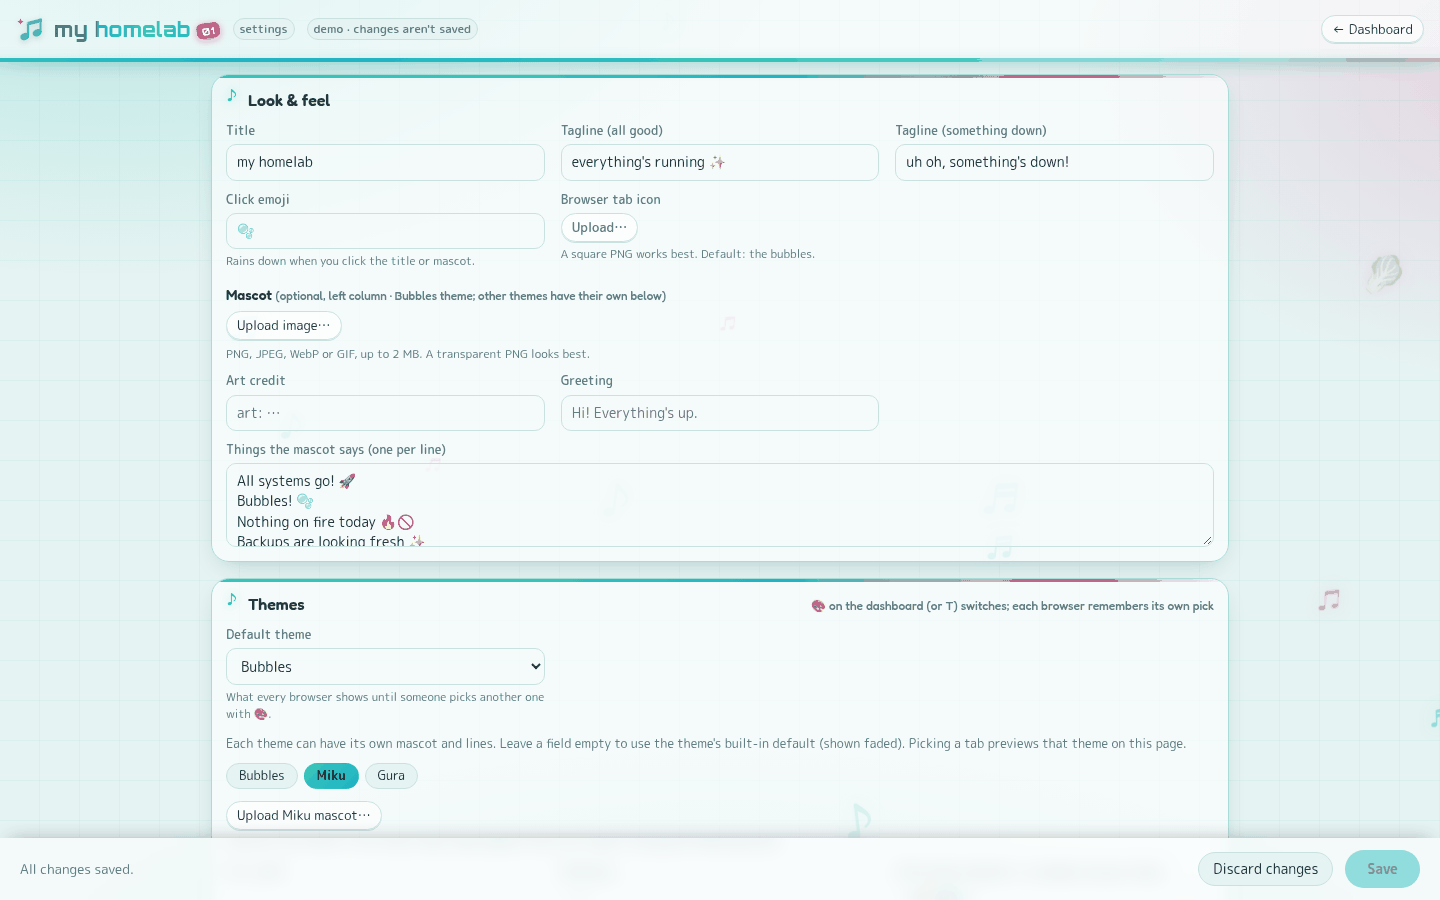
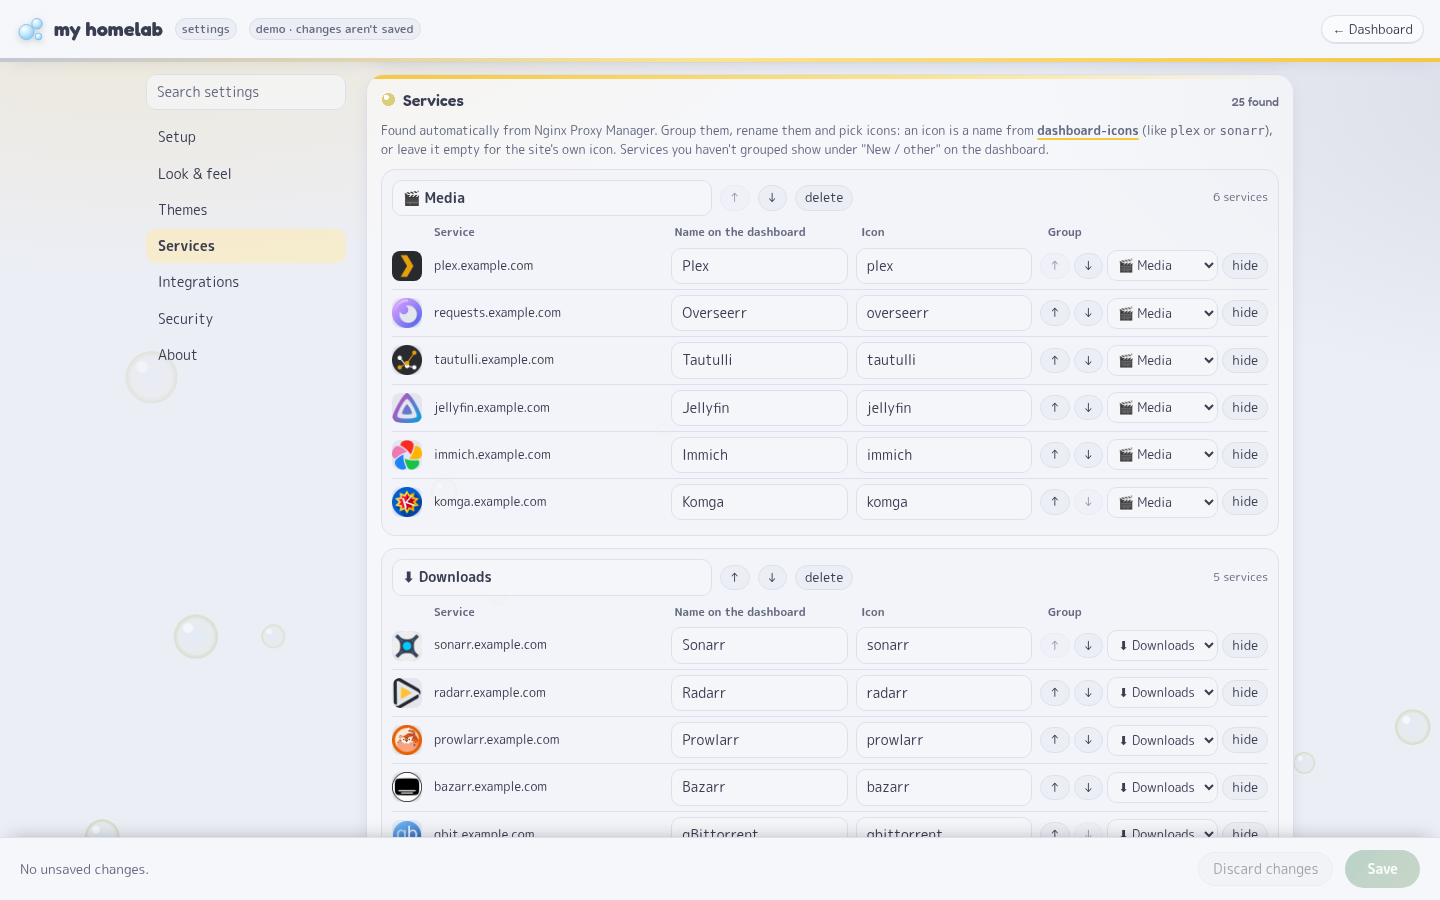
Docs: the new settings page, and what moved onto it
Why: the first-time-user review found docs that now disagree with the page:
- CHECK_VIA_PROXY described as env-only.
- "List services in config.toml" for people without NPM.
- .env called optional, though compose needs the file.
- A compose comment about LAN-only use that does nothing.
- config.example.toml claiming everything there can be set on the page.

What changed:
- README.md:
  - a ⭐ "What's new" entry with a fresh-install Setup screenshot;
  - the Settings page section describes the new sections;
  - Install mentions Setup, `docker logs dash` for an empty page, and how to find the proxy's network;
  - .env is needed (it may stay empty);
  - non-NPM services go on the page;
  - key storage and TRUSTED_PROXY's default are worded correctly.
- docs/SETTINGS.md:
  - a via_proxy row;
  - CHECK_VIA_PROXY wins and locks it;
  - Setup checks the other two places;
  - "Known IPs" naming.
- docs/screenshot-setup.png (new), docs/screenshot-settings.png (redone): from a clean first-install copy
  and the demo.
- docker-compose.yml: the LISTEN pointer goes to docs/SETTINGS.md; CHECK_VIA_PROXY is also on the page;
  LAN-only means setting TRUSTED_PROXY: "".
- config.example.toml: which keys the page can't set, when origin applies, mascot uploads, check_via_proxy,
  where keys are saved.
- .env.example: the lock text the page shows.
- THREAT-MODEL.md: the hosts and paths checked through the proxy are now set on the page.
[…]

diff --git a/README.md b/README.md
@@ -4,7 +4,8 @@
 torrents (with a VPN-leak alarm), temperatures, drives, security and backups, all at a glance.
 
 - Small: one stdlib-Python app. No pip, no Node, no database. About 25–40 MB of RAM.
-- Easy: set it up from a settings page in your browser. Services from Nginx Proxy Manager show up on their own.
+- Easy: set it up from a settings page in your browser. Its **Setup checklist** tells you what's missing and how to
+  fix it. Services from Nginx Proxy Manager show up on their own.
 - Safe: your API keys stay on the server, and the part that runs as root never talks to the network.
 
 **▶ [Try the live demo](https://demo.vicy.us)** (fake data, nothing you do there is saved)
@@ -78,9 +79,9 @@ docker compose up -d
 ```
 
 In NPM, add a proxy host that forwards to `dash:8000`, and **put it behind your SSO** (Authelia, Authentik, …).
-Open the dashboard, click **⚙**, and set everything else there.
+Open the dashboard and click **⚙**: the **Setup** checklist checks the rest and gives the exact fix for anything missing.
 
-> **Empty page or 502?** Check `docker logs dash` and that `TRUSTED_PROXY` is your proxy's real container name.
+> **Empty page or 502?** Run `docker logs dash`. A `TRUSTED_PROXY` name that doesn't resolve refuses everyone, and the log says so.
 > Not sure of your proxy's network name? `docker inspect -f '{{range $k,$v := .NetworkSettings.Networks}}{{$k}} {{end}}' <proxy>`
 
 **2. The collector** (optional, runs on the host as root)
@@ -128,10 +129,27 @@ Most updates need nothing from you. These ones might:
 | **New `LISTEN` setting** (optional, recommended). | Lets the dash answer only on a network that your proxy alone shares with it, so no other container can reach it. [How to set it up](docs/SETTINGS.md#lock-the-dash-to-the-proxy-listen). |
 | **Upload limits**: images only (PNG, JPEG, GIF, WebP), 2 MB each, 200 files / 100 MB in all. SVG is refused. | Nothing, unless you upload a lot of icons. |
 | **Fonts are now part of the app** instead of coming from Google. | Nothing. The page loads nothing from outside any more. |
-| **Health checks through the proxy can use a path** (`CHECK_VIA_PROXY: vault.example.com/alive`). | Use it when a service's `/` sits behind a login. |
+| **"Check through the proxy" moved onto the settings page** (Services → Advanced), and an entry can carry a path (`vault.example.com/alive`). | Nothing: if `CHECK_VIA_PROXY` is set in the compose file it still wins, and the page shows it locked. You can remove it from the compose file and manage the list on the page instead. |
 | **`.env` must exist** (the compose file loads it). | `cp .env.example .env`, even if you leave it empty. |
 
 ### The big changes
+
+#### ⚙ A new settings page: set everything up in one place (Oct 29)
+
+![The Setup checklist on a fresh install](docs/screenshot-setup.png)
+
+The settings page was rebuilt around a new install: after `docker compose up -d`, everything else is set on the page,
+and for what can't be, the Setup checklist gives the exact fix.
+
+- **Setup checklist.** Checks the proxy lock, the dashboard's address, whether settings can be saved, the Nginx Proxy
+  Manager folder, **whether a sign-in sits in front of the dashboard**, the collector and the integrations. Each
+  problem says what happens if you ignore it and gives the exact fix, with a **Copy** button.
+- **Side menu with search** (a bar on phones), a dot on every section with unsaved changes, one Save bar
+  (**Ctrl+S**), and an error summary that takes you straight to the field.
+- **Clearer Test results**: "can't find 'overseerr'" (wrong Docker network), timeouts, refused connections.
+- **Every theme edited the same way** (the Default theme picker moved into Themes), and services not in NPM get their own tile link.
+- **Accessible**: readable contrast in every theme, a visible focus ring, labels on every field, works with the
+  keyboard alone and on a phone.
 
 #### 🔒 Security audit and hardening (Oct 29)
 
@@ -224,15 +242,17 @@ The panel is about a third shorter, and the wall view fits any number of groups.
 
 ![Settings page](docs/screenshot-settings.png)
 
-Click **⚙** (or open `/settings`). Changes apply right away, no restart.
+Click **⚙** (or open `/settings`). Use the side menu or the search box; changes apply right away, no restart.
 
-- **Look & feel**: title, default theme, and per theme its mascot, taglines and lines.
-- **Services**: everything found in NPM. Create, rename and reorder groups; change labels and icons (any
-  [dashboard-icons](https://dashboard-icons.homarr.dev) name); hide what you don't want. New NPM hosts appear on their own.
-- **Extra services** that aren't in NPM (NAS, router, …).
-- **Integrations**: qBittorrent, Seerr / Overseerr / Jellyseerr, Tautulli, each with a **Test** button.
-- **Trusted IPs** for the login checks (or add them from the SSH details).
-- **Hidden panels**.
+| Section | What's there |
+|---|---|
+| **Setup** | What's working and what isn't, each with its fix |
+| **Look & feel** | Title, and which panels to show |
+| **Themes** | The default theme; per theme its mascot (upload an image), tab icon, taglines, click emoji and lines |
+| **Services** | Everything found in NPM: groups (create, rename, reorder), labels, icons (any [dashboard-icons](https://dashboard-icons.homarr.dev) name), hiding. Services not in NPM (NAS, router, …). Advanced: services to check through the proxy |
+| **Integrations** | qBittorrent, Seerr / Overseerr / Jellyseerr, Tautulli, each with a **Test** button that says what's wrong |
+| **Security** | **Your own IPs** (was "Trusted IPs"): logins from them aren't flagged (or add them from the SSH details) |
+| **About** | What's set in `docker-compose.yml`, and why it can't be changed here |
 
 Everything is saved in `data/` (`settings.json`, keys in `secrets.json`, both `chmod 600`). Prefer a file? Put a
 `config.toml` in `data/` (see [`config.example.toml`](config.example.toml)); it's used until the first save.

diff --git a/docs/SETTINGS.md b/docs/SETTINGS.md
@@ -4,7 +4,7 @@ Three places, each for a different kind of setting:
 
 | Where | What goes there | Who can change it |
 |---|---|---|
-| The **/settings page** (saved to `data/settings.json`, keys to `data/secrets.json`) | everything about the look, the services, the integrations | anyone who can open the dashboard (unless `SETTINGS_UI=0`) |
+| The **/settings page** (saved to `data/settings.json`, keys to `data/secrets.json`) | everything about the look, the services, the integrations. Its **Setup** section checks the other two places and gives the exact fix for anything missing | anyone who can open the dashboard (unless `SETTINGS_UI=0`) |
 | **Environment** (`docker-compose.yml`, `.env`) | anything security-critical: who may talk to the dash, where it listens, the CSRF origin; optionally the integration keys (then the page can't change them) | whoever runs the container |
 | **`/etc/homelab-dash/collector.toml`** | what the root collector checks | root (see `collector/collector.example.toml`) |
 
@@ -35,6 +35,7 @@ save from the settings page. Every field is validated on the server; a bad value
 | `apps.<host>` | `{label, icon, url}`: a tile's name, its icon (a [dashboard-icons](https://github.com/homarr-labs/dashboard-icons) name, an uploaded file or a URL) and where it links (default `https://<host>`) |
 | `services` | `[{name, url, auth}]`: services that aren't proxy hosts; `url` is what gets health-checked |
 | `skip_hosts` | proxy hosts to leave off the dashboard |
+| `via_proxy` | up to 100 `host` or `host/path` entries (Services → Advanced): health-checked through the reverse proxy instead of directly, for services on a network the dashboard isn't on. A path is checked instead of `/` (use one that skips the sign-in). `CHECK_VIA_PROXY` in the environment wins and locks the field. In `config.toml`: `[proxy] check_via_proxy` |
 
 A service counts as **up** when it answers below HTTP 500 (a login page or a redirect counts: redirects aren't
 followed). Health checks run at most every 25 s whatever the number of open browsers.
@@ -51,7 +52,7 @@ An integration turns on when its URL and keys are set. Changing an integration's
 keys again, so a changed address can't receive the saved ones. Keys never go back to the browser (the page only sees
 "set" / "not set"). The integrations never follow redirects; the settings page's **Test** says so if one redirects.
 
-### `known_ips`
+### `known_ips` ("Known IPs" on the page)
 
 Up to 200 entries: full addresses (`198.51.100.7`, `2001:db8::1`) or prefixes ending in `.` or `:` (`203.0.113.`,
 `2001:db8:`). SSH and SSO logins from anywhere else are flagged. The SSH detail view can add an IP that really logged in.
@@ -66,7 +67,7 @@ Up to 200 entries: full addresses (`198.51.100.7`, `2001:db8::1`) or prefixes en
 | `SETTINGS_UI` | `1` | `0` makes the settings page read-only |
 | `USER_HEADER` | (off) | A header naming the SSO user (e.g. `Remote-User`), logged with each change. Only if your proxy sets it itself, and only trusted on requests from `TRUSTED_PROXY` |
 | `NPM_DIR` | `/npm` | Nginx Proxy Manager's `proxy_host` folder, mounted read-only: the service list |
-| `CHECK_VIA_PROXY` | (none) | `host[/path] …`: services on networks the dash can't reach, checked through the proxy instead |
+| `CHECK_VIA_PROXY` | (none) | `host[/path] …`: the same as `via_proxy` on the settings page. When set, it wins and the field is locked |
 | `QBIT_URL`, `SEERR_URL`, `TAUTULLI_URL` and the keys above | (none) | Integration settings from the environment; the settings page then shows them locked |
 | `HOME_IP` | (none) | Same as `qbittorrent.home_ip` |
 | `DATA_DIR` | `/data` | Settings, keys, acknowledgements, uploads (writable by uid 1000) |

diff --git a/THREAT-MODEL.md b/THREAT-MODEL.md
@@ -23,7 +23,8 @@ Written for the reference setup (a home server behind a reverse proxy with SSO),
                  │   reads: NPM proxy_host/*.conf (ro), /proc + hwmon (ro), hw.json + sec-detail.json (ro)
                  │   writes: data/ (settings, secrets, acks, uploads), req/cron-approve (a 64-hex hash)
                  │   calls out: qBittorrent, Seerr, Tautulli (API keys); every service upstream (health check,
-                 │              favicon); the proxy itself (checks via the proxy)
+                 │              favicon); the proxy itself (checks via the proxy: which hosts and paths is a
+                 │              setting on the page since Oct 29, so a page user can make a down service look up)
                  ▼
  /var/lib/homelab-dash/  hw.json, sec-detail.json (root:dash-group 0640)  ◄── homelab-dash-collector (root)
                                          req/ (owned by the dash uid)    ──► read by the collector each round
